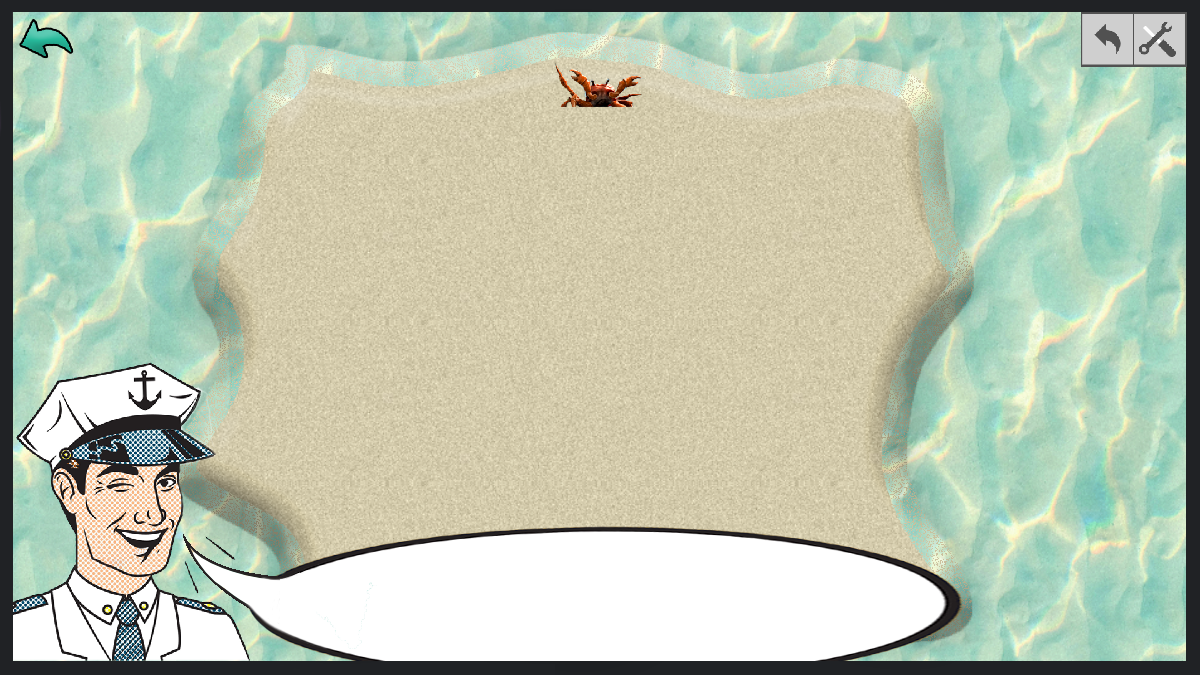
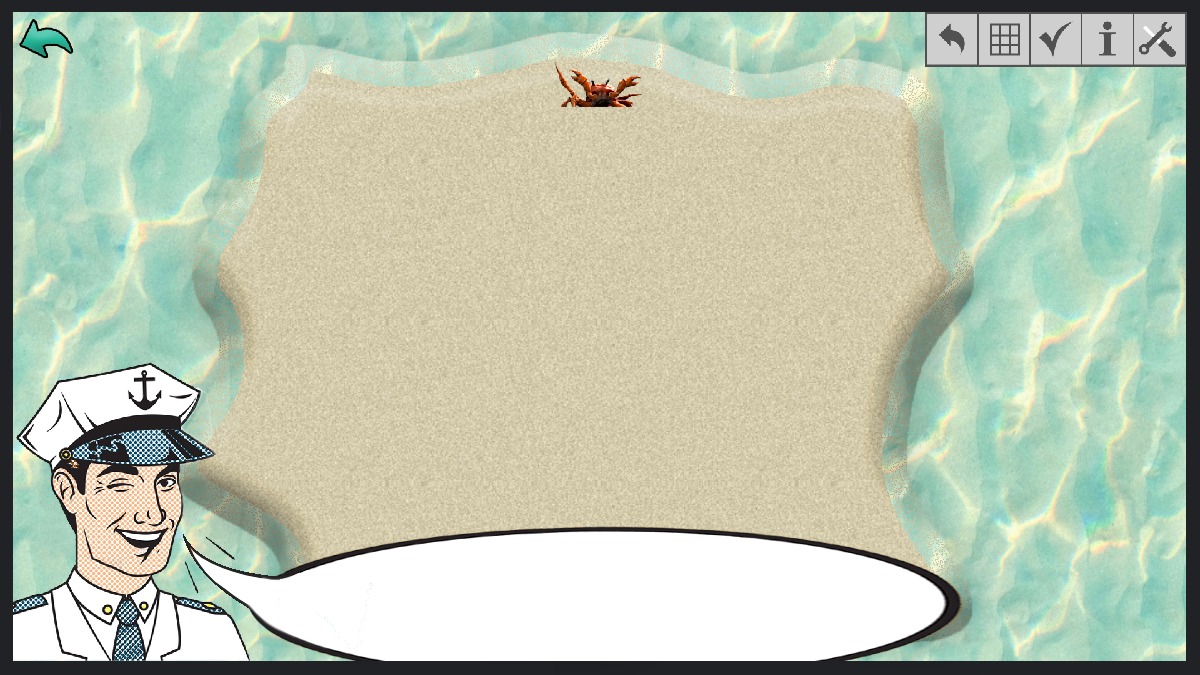
Update tuto.rb
Changement arrière plan + ajout bouton différentes aides

Changed region(s): [[0.7708, 0.0, 0.9558, 0.1244]]

diff --git a/Src/Tuto.rb b/Src/Tuto.rb
@@ -17,7 +17,10 @@ class Tuto
         @precedent = Gtk::Button.new(:label => "Règle précédente")
         @retourMenu = Gtk::Button.new()
         @boutonUndo = Gtk::Button.new()
-        @boutonOptions = Gtk::Button.new()
+        @boutonRemplissage = Gtk::Button.new()
+        @boutonCheck = Gtk::Button.new()
+        @boutonCurseur = Gtk::Button.new()
+        @boutonCoupLogique = Gtk::Button.new();
 
 
         #Css des boutons
@@ -48,8 +51,11 @@ class Tuto
 
         #Ajout des différents boutons, de leur css respectif ainsi que de leurs évents liés
         ajouteBouton(@box,@retourMenu,1,55,45,(1200 *0.015), 675 * 0.025,method(:vers_menu),@window,@box2)
-        ajouteBouton(@box,@boutonUndo,1,60,60,(1200*0.899), 675*0.015,nil,@window,@box2)
-        ajouteBouton(@box,@boutonOptions,1,60,60,(1200*0.94), 675*0.02,nil,@window,@box2)
+        ajouteBouton(@box,@boutonCoupLogique,1,60,60,(1200*0.899), 675*0.015,nil,@window,@box2)
+        ajouteBouton(@box,@boutonCheck,1,60,60,(1200*0.855), 675*0.015,nil,@window,@box2)
+        ajouteBouton(@box,@boutonCurseur,1,60,60,(1200*0.812), 675*0.015,nil,@window,@box2)
+        ajouteBouton(@box,@boutonUndo,1,60,60,(1200*0.767), 675*0.015,nil,@window,@box2)
+        ajouteBouton(@box,@boutonRemplissage,1,60,60,(1200*0.942), 675*0.015,nil,@window,@box2)
         ajoutecssProvider(@suivant,cssVoir,150,25)
         @box.put(@suivant,(1200 *0.84), 675 * 0.4)
         ajouteBouton(@box,@precedent,1,150,25,(1200 *0.05),675 * 0.4,nil,@window,@box2)
@@ -77,7 +83,7 @@ class Tuto
                 @precedent.style_context.add_provider(cssVoir,Gtk::StyleProvider::PRIORITY_USER)
             end
 
-            if index>=10
+            if index>=11
                 @suivant.style_context.add_provider(@cssCache,Gtk::StyleProvider::PRIORITY_USER)
                 @suivant.sensitive = false
             end
@@ -92,7 +98,7 @@ class Tuto
                 @precedent.sensitive = false
             end
 
-            if index<10
+            if index<11
                 @suivant.sensitive = true
                 @suivant.style_context.add_provider(cssVoir,Gtk::StyleProvider::PRIORITY_USER)
             end
@@ -140,18 +146,32 @@ class Tuto
             @labelTechnique.set_text(@techniqueText)
 
         when 7 
+            @boutonCheck.style_context.add_provider(@cssCache,Gtk::StyleProvider::PRIORITY_USER)
             @boutonUndo.style_context.add_provider(cssAidePresentee,Gtk::StyleProvider::PRIORITY_USER)
             @techniqueText = "Première aide disponible : Ce bouton vous\npermet d'annuler le coup que vous venez de\nréaliser, vous revenez ainsi en arrière."
             @labelTechnique.set_text(@techniqueText)
         when 8
             @boutonUndo.style_context.add_provider(@cssCache,Gtk::StyleProvider::PRIORITY_USER)
+            @boutonCurseur.style_context.add_provider(@cssCache,Gtk::StyleProvider::PRIORITY_USER)
+            @boutonCheck.style_context.add_provider(cssAidePresentee,Gtk::StyleProvider::PRIORITY_USER)
             @techniqueText = "Deuxième aide disponible : Ce bouton vous\npermet de vérifier si tous les coups que\nvous avez joué sont corrects ou non."
             @labelTechnique.set_text(@techniqueText)
         when 9
-            @techniqueText = "Troisième aide disponible : Ce bouton vous\npermet de remplir automatiquement les cases\n9,6,4 et 0"
+            @boutonCheck.style_context.add_provider(@cssCache,Gtk::StyleProvider::PRIORITY_USER)
+            @boutonRemplissage.style_context.add_provider(@cssCache,Gtk::StyleProvider::PRIORITY_USER)
+            @boutonCurseur.style_context.add_provider(cssAidePresentee,Gtk::StyleProvider::PRIORITY_USER)
+            @techniqueText = "Troisième aide disponible : Ce bouton vous\npermet d'afficher votre curseur en\nsélectionnant un carré de 3 cases par 3."
             @labelTechnique.set_text(@techniqueText)
         when 10 
-            @techniqueText = "Quatrième aide disponible : Ce bouton vous\npermet d'afficher votre curseur en\nsélectionnant un carré de 3 cases par 3"
+            @boutonCurseur.style_context.add_provider(@cssCache,Gtk::StyleProvider::PRIORITY_USER)
+            @boutonCoupLogique.style_context.add_provider(@cssCache,Gtk::StyleProvider::PRIORITY_USER)
+            @boutonRemplissage.style_context.add_provider(cssAidePresentee,Gtk::StyleProvider::PRIORITY_USER)
+            @techniqueText = "Quatrième aide disponible : En cliquant ici\nvous pouvez remplir automatiquement les\ncases 9,6,4 et 0 via la case à cocher."
+            @labelTechnique.set_text(@techniqueText)
+        when 11
+            @boutonRemplissage.style_context.add_provider(@cssCache,Gtk::StyleProvider::PRIORITY_USER)
+            @boutonCoupLogique.style_context.add_provider(cssAidePresentee,Gtk::StyleProvider::PRIORITY_USER)
+            @techniqueText = "Cinquième aide disponible : Ce bouton vous\npermet d'afficher le prochain coup logique\nà faire lorsque vous êtes bloqués."
             @labelTechnique.set_text(@techniqueText)
         end
     end
